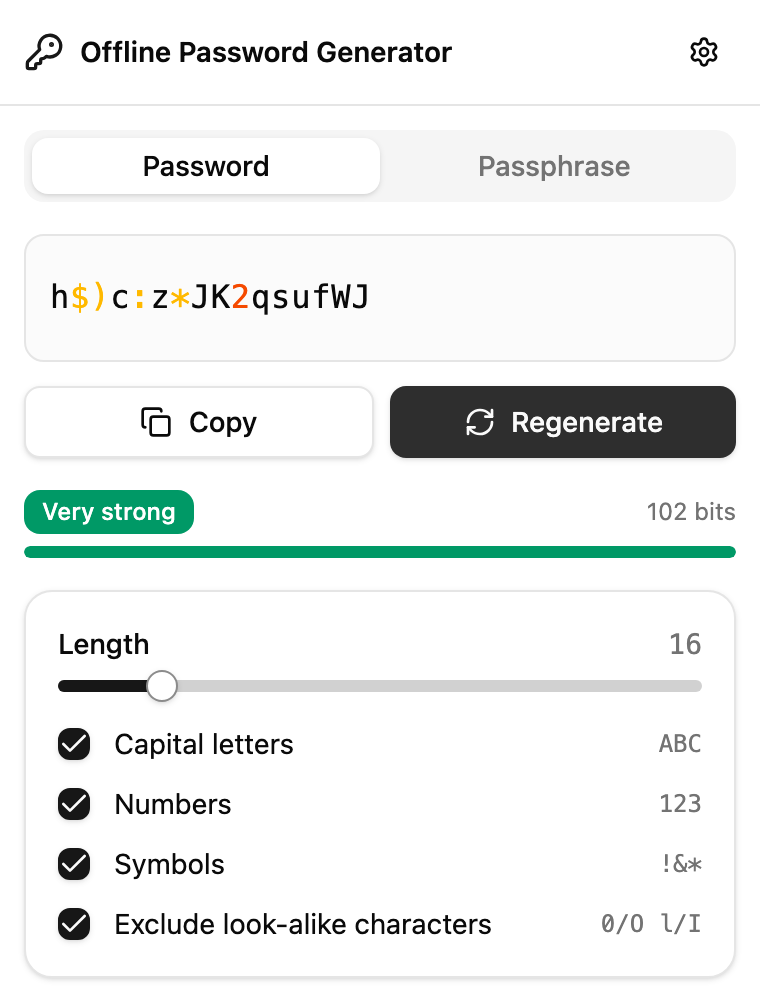
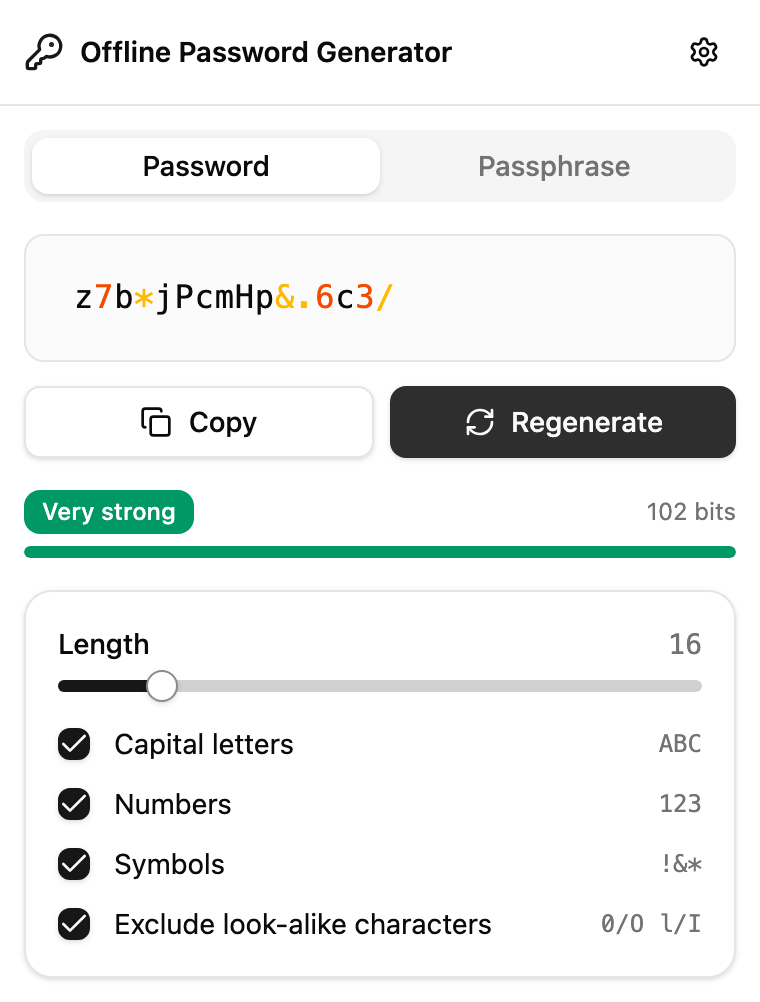
fix: stop long passphrases from blowing out the popup width
The output box is a flex container and the coloured secret is its flex
item, so it inherits min-width: auto and will not shrink below its
min-content width. Passphrase mode asked for `break-words`, and
overflow-wrap: break-word breaks a long word but does not lower
min-content - so any phrase joined by separators that offer no break
opportunity stayed a single unbreakable token and pushed the page from
380px out to as much as 1000px.

That hit five of the seven separators - periods, commas, underscores, and
both random ones. Only hyphens and spaces were safe, which is why the
default configuration never showed it.

Use `wrap-anywhere` (overflow-wrap: anywhere) instead: it breaks the same
way but counts mid-word breaks towards the intrinsic size, which is the
documented fix for text inside a flex container. Unlike word-break:
break-all it still prefers to break at a separator, so hyphen- and
space-joined phrases keep breaking between words - verified.

Password mode already used break-all, which does lower min-content, and is
left alone.

Also widen the output box padding. A 64-character password filled both
lines edge to edge, which reads as truncated even though nothing was
missing; the extra padding shortens the line so the text now ends with a
visible ragged edge.

Changed region(s): [[0.0605, 0.2784, 0.5145, 0.3094]]

diff --git a/src/popup/components/ColoredSecret.jsx b/src/popup/components/ColoredSecret.jsx
@@ -11,8 +11,15 @@ function charClass(ch) {
 }
 
 export function ColoredSecret({ value, mode }) {
-  // Passphrases wrap at word boundaries; random passwords may break anywhere.
-  const wrap = mode === "passphrase" ? "break-words" : "break-all";
+  // Passphrases still prefer to break at a separator, random passwords may
+  // break anywhere. Both must let the browser count mid-word breaks towards
+  // the intrinsic size: this span is a flex item of the output box, and a flex
+  // item will not shrink below its min-content width. Plain `break-words`
+  // (overflow-wrap: break-word) does not lower min-content, so a phrase joined
+  // by separators that offer no break opportunity - periods, commas,
+  // underscores, or the random digit/symbol ones - stayed one unbreakable
+  // token and pushed the popup out to ~1000px wide.
+  const wrap = mode === "passphrase" ? "wrap-anywhere" : "break-all";
   return (
     <span
       className={cn("font-mono text-base leading-relaxed tracking-wide", wrap)}

diff --git a/src/popup/components/GeneratorOutput.jsx b/src/popup/components/GeneratorOutput.jsx
@@ -31,7 +31,7 @@ export function GeneratorOutput({ value, mode, onRegenerate }) {
         onClick={handleCopy}
         aria-label="Copy generated value"
         title="Click to copy"
-        className="flex min-h-16 w-full items-center rounded-lg border bg-muted/40 px-3 py-2.5 text-left transition-colors hover:bg-muted/70"
+        className="flex min-h-16 w-full items-center rounded-lg border bg-muted/40 px-6 py-3 text-left transition-colors hover:bg-muted/70"
       >
         <ColoredSecret value={value} mode={mode} />
       </button>
